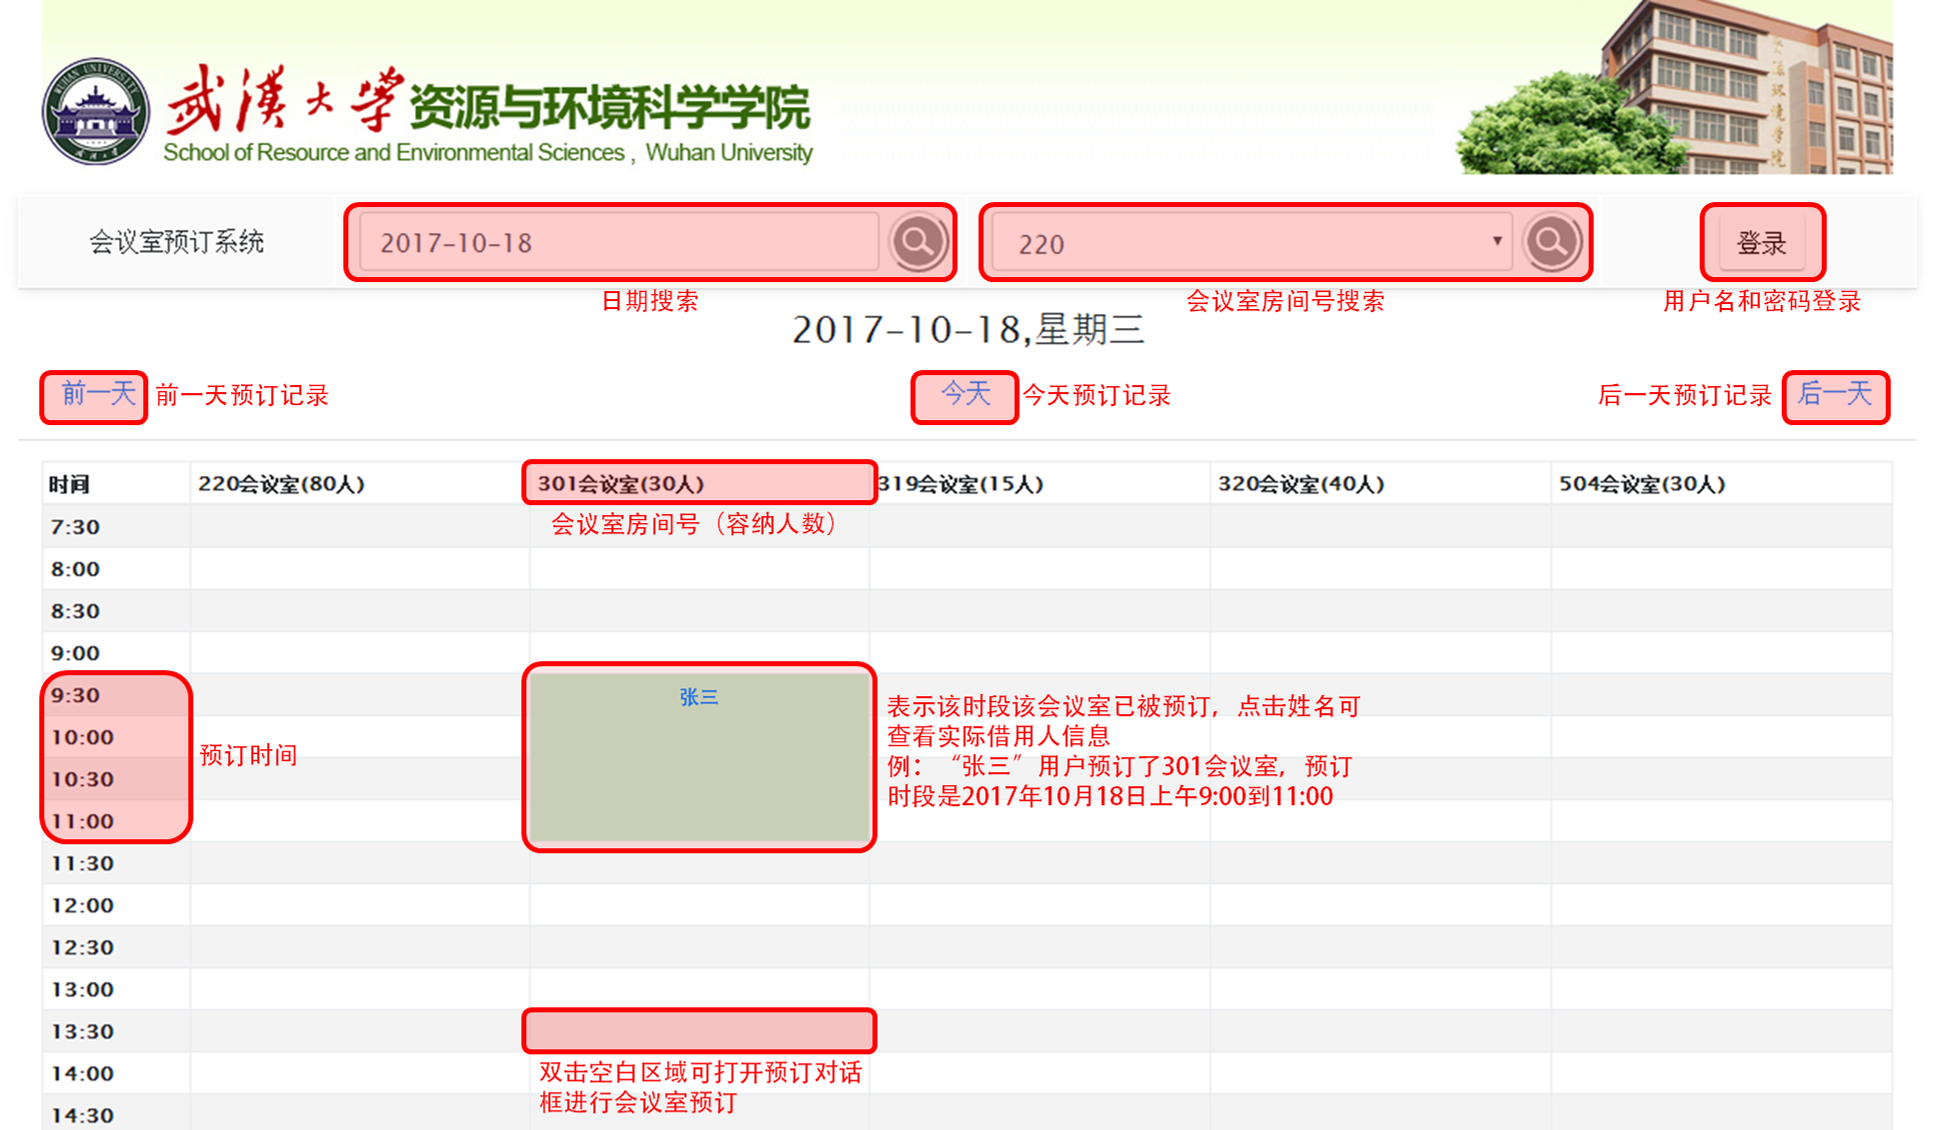
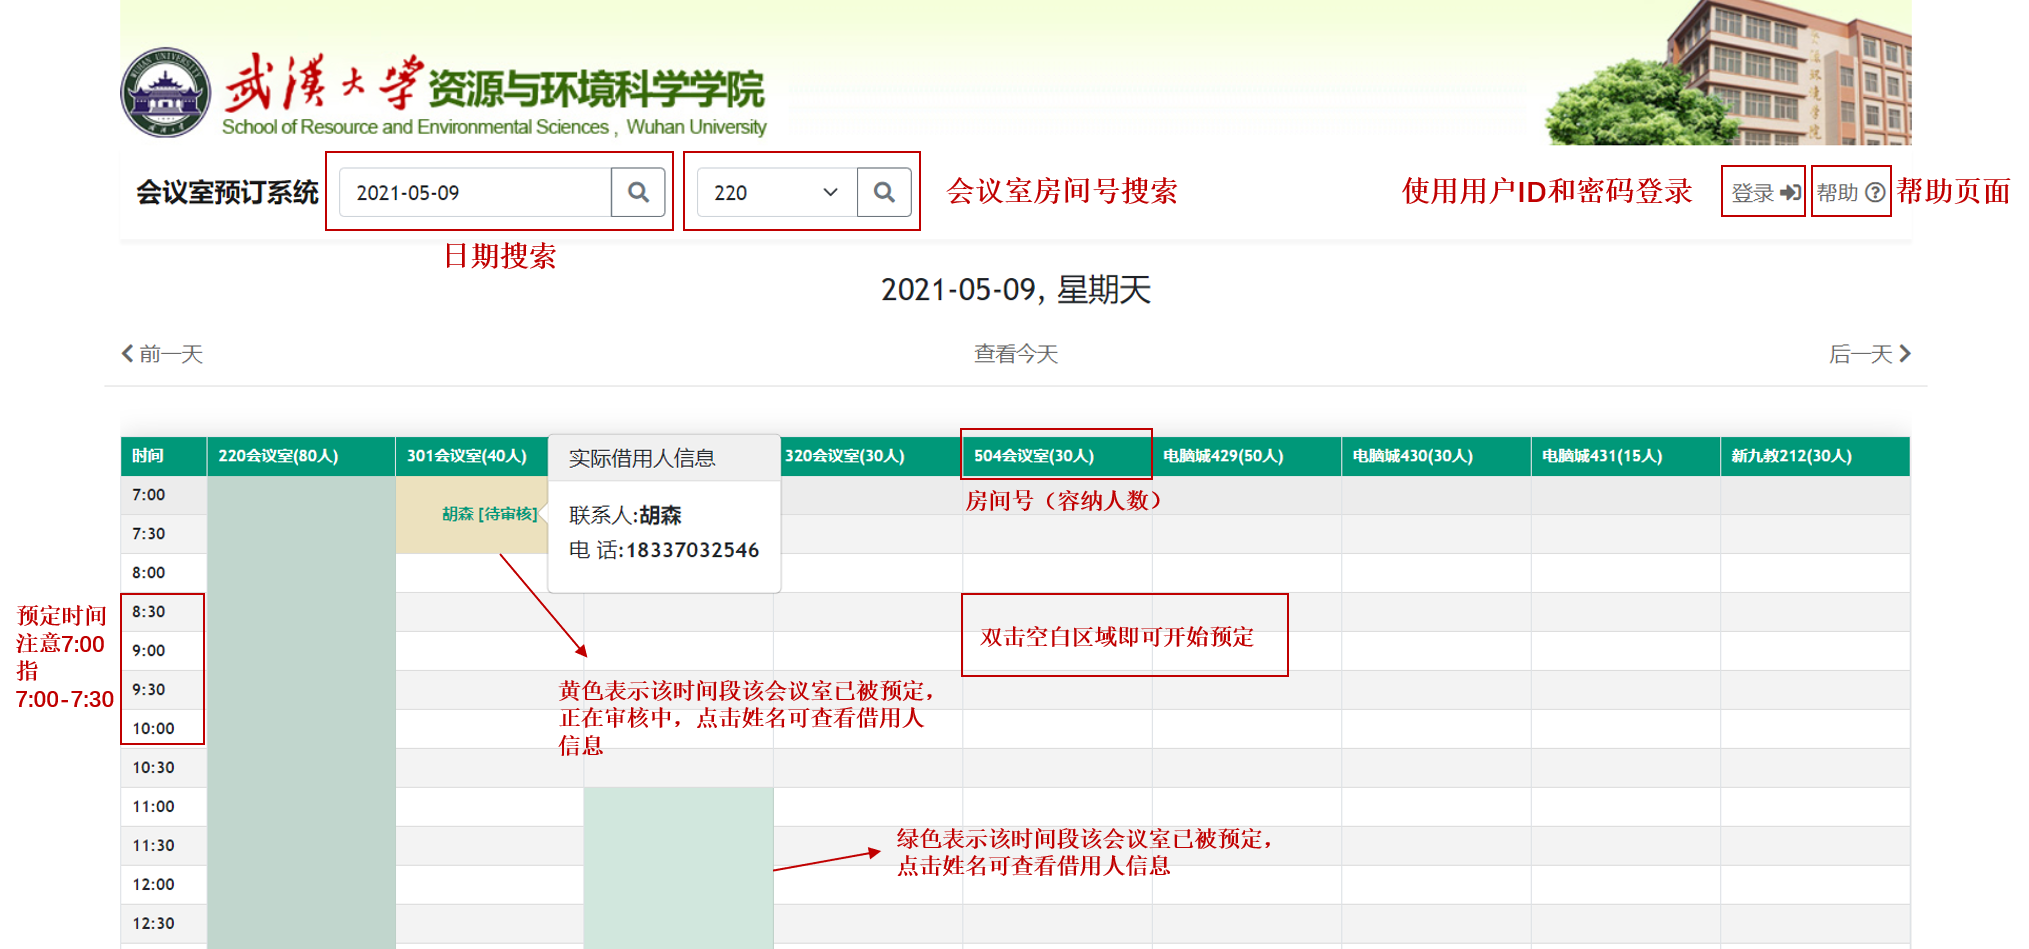
开发完成

diff --git a/src/main/resources/templates/help.html b/src/main/resources/templates/help.html
@@ -8,7 +8,7 @@
 
 
     <!-- Favicon -->
-    <link href="/assets/img/brand/favicon.png" rel="icon" type="image/png">
+    <link th:href="@{/images/icon.png}" rel="icon" type="image/png">
 
     <!-- bootstrap -->
     <link rel="stylesheet" th:href="@{/css/bootstrap.min.css}">
@@ -67,7 +67,7 @@
                         版本号：
                     </th>
                     <td>
-                        4.0.0
+                        3.0.0 -> 4.0.0
                     </td>
                 </tr>
                 <tr>
@@ -92,21 +92,21 @@
                         更新说明：
                     </th>
                     <td>
-                        <ul>
-                            <li class="list-unstyled">
+                        <ul class="list-unstyled">
+                            <li>
                                 1.预订时间更加细化，可以只预订半个小时，最短预订时间不再只能半天；
                             </li>
-                            <li class="list-unstyled">
+                            <li>
                                 2.预订流程进行了简化，尽可能减少了一些不必要的步骤；
                             </li>
-                            <li class="list-unstyled">
+                            <li>
                                 3.界面进行了一定程度上的优化；
                             </li>
-                            <li class="list-unstyled">
+                            <li>
                                 4.添加管理界面，大幅度修改UI；
                             </li>
-                            <li class="list-unstyled">
-                                5.本系统暂<span style="color:#e00;"><strong>不支持IE浏览器</strong></span>，谷歌浏览器和火狐浏览器均已通过测试。
+                            <li>
+                                5.本系统暂<span style="color:#e00;"><strong>不支持IE浏览器</strong></span>，谷歌浏览器、火狐浏览器和Edge浏览器均已通过测试。
                             </li>
                         </ul>
                     </td>
@@ -159,25 +159,44 @@
     </div>
 </div>
 
-<div style="text-align:center">
+<div class="container center" style="text-align:center">
 
     <figure class="figure">
-        <img th:src="@{/images/help-home.png}" class="figure-img img-fluid" style="width:1024px; height:768px;"/>
+        <img th:src="@{/images/help-home.png}" class="figure-img img-fluid" alt="主页" style="width: 80%"/>
         <figcaption class="figure-caption">系统主页面</figcaption>
     </figure>
     <br/>
     <figure class="figure">
-        <img th:src="@{/images/help-bookingdialog.png}" class="figure-img img-fluid"
-             style="width:600px;height:800px;"/>
+        <img th:src="@{/images/help-bookingdialog.png}" class="figure-img img-fluid" alt="预订" style="width: 60%"/>
         <figcaption class="figure-caption">预订页面</figcaption>
     </figure>
 
     <br/>
     <figure class="figure">
-        <img th:src="@{/images/help-cancel.png}" class="figure-img img-fluid" style="width:900px;height:400px;"/>
+        <img th:src="@{/images/help-cancel.png}" class="figure-img img-fluid" style="width: 60%"/>
         <figcaption class="figure-caption">撤销会议室</figcaption>
     </figure>
 
+    <br/>
+    <figure class="figure">
+        <img th:src="@{/images/help-user-edit.png}" class="figure-img img-fluid" style="width: 60%"/>
+        <figcaption class="figure-caption">个人信息修改</figcaption>
+    </figure>
+    <br/>
+    <figure class="figure">
+        <img th:src="@{/images/help-history.png}" class="figure-img img-fluid" style="width: 60%"/>
+        <figcaption class="figure-caption">历史预定记录</figcaption>
+    </figure>
+    <br/>
+    <figure class="figure">
+        <img th:src="@{/images/help-admin-user-manage.png}" class="figure-img img-fluid" style="width: 60%"/>
+        <figcaption class="figure-caption">【管理员】用户管理</figcaption>
+    </figure>
+    <br/>
+    <figure class="figure">
+        <img th:src="@{/images/help-admin-agree.png}" class="figure-img img-fluid" style="width: 60%"/>
+        <figcaption class="figure-caption">【管理员】预约审核</figcaption>
+    </figure>
 </div>
 
 <!-- jquery -->

diff --git a/src/main/resources/static/scripts/index.js b/src/main/resources/static/scripts/index.js
@@ -48,6 +48,7 @@ const initTableRoom = function () {
 
     $("#content table td").dblclick(function () {
         if (inMemoryToken) {
+            changeBookingDateOrRoom();
             bookModal.show();
         } else {
             loginModal.show();
@@ -148,7 +149,6 @@ $('#loginBtn').click(async () => {
                 alert("用户名或者密码错误！");
                 return;
             }
-            console.log(res);
             const {access_token, access_token_expiry, user_id, user_name, user_roles, user_phone} = res.data;
             login({access_token, access_token_expiry});
             localStorage.setItem("login_user", user_name);
@@ -156,7 +156,7 @@ $('#loginBtn').click(async () => {
             localStorage.setItem("login_user_roles", JSON.stringify(user_roles));
             localStorage.setItem("login_user_phone", user_phone);
             startCountdown(toLogin, toLogout);
-            $("#userLabel").text(user_name).removeClass(
+            $("#userLabel").text(user_name).parent("#toManage").removeClass(
                 'hidden');
             $("#btnLogin").addClass('hidden');
             $('#btnLogout').removeClass(
@@ -316,7 +316,7 @@ $('.spinner .btn:last-of-type').on('click', function () {
     }
 });
 
-$("#userLabel").click(() => {
+$("#toManage").click(() => {
     window.location.href = `${base}/manage`;
 });
 
@@ -335,7 +335,7 @@ function changeBookingDateOrRoom() {
         }
         const unavailableRooms = res.data;
 
-        $('.bg-danger').removeClass('bg-danger');
+        $('.styled-table tbody tr td.active').removeClass('active');
         unavailableRooms.forEach(item => {
             const start = item.start;
             const end = item.end;
@@ -343,7 +343,7 @@ function changeBookingDateOrRoom() {
             const first = (start - time - extra) / 1800; // 开始id
             const last = (end - time - extra) / 1800; // 结束id
             for (let i = first; i < last; i++) {
-                $('#' + (i + 1)).addClass("bg-danger");
+                $('#' + (i + 1)).addClass("active");
             }
         })
     }).fail(function () {
@@ -357,7 +357,7 @@ async function syncLogout(event) {
             return;
         }
         console.log('logged out from storage!')
-        $('#userLabel').empty().addClass('hidden');
+        $('#toManage').empty().addClass('hidden');
         $('#btnLogin').removeClass('hidden');
         $('#btnLogout').addClass('hidden');
         inMemoryToken = null; // 将token置空
@@ -387,7 +387,7 @@ function toLogin() {
 }
 
 function toLogout() {
-    $('#userLabel').empty().addClass('hidden');
+    $('#toManage').empty().addClass('hidden');
     $('#btnLogin').removeClass('hidden');
     $('#btnLogout').addClass('hidden');
 }
@@ -407,7 +407,7 @@ $(function () {
         alert("此功能还在开发中，敬请期待！");
     });
     $("#btnLogout").click(async () => {
-        $('#userLabel').empty().addClass('hidden');
+        $('#toManage').empty().addClass('hidden');
         $('#btnLogin').removeClass('hidden');
         $('#btnLogout').addClass('hidden');
         await logout();
@@ -420,7 +420,7 @@ $(function () {
     auth(toLogin, toLogout).then(() => {
         // 刷新是否成功
         if (isLogin()) {
-            $("#userLabel").text(localStorage.getItem("login_user")).removeClass(
+            $("#userLabel").text(localStorage.getItem("login_user")).parent("#toManage").removeClass(
                 'hidden');
             $("#btnLogin").addClass('hidden');
             $('#btnLogout').removeClass(

diff --git a/src/main/resources/templates/index.html b/src/main/resources/templates/index.html
@@ -8,7 +8,7 @@
     <title>资环院会议室预订系统</title>
 
     <!-- Favicon -->
-    <link href="/assets/img/brand/favicon.png" rel="icon" type="image/png">
+    <link th:href="@{/images/icon.png}" rel="icon" type="image/png">
 
     <!-- bootstrap -->
     <link rel="stylesheet" th:href="@{/css/bootstrap.min.css}">
@@ -75,12 +75,13 @@
                     </li>
                 </ul>
                 <ul class="nav justify-content-end">
-                    <li class="nav-item m-1 me-2 styled-li">
-                        <span id="userLabel" class="hidden"></span>
+                    <li class="nav-item m-1 me-2 styled-li hidden" id="toManage">
+                        <i class="far fa-user me-0"></i>
+                        <span id="userLabel"></span>
                     </li>
-                    <li class="nav-item m-1 me-2 styled-li" id="btnLogin">
-                        <span class="me-0" data-bs-toggle="modal"
-                              data-bs-target="#loginModal">登录
+                    <li class="nav-item m-1 me-2 styled-li" id="btnLogin" data-bs-toggle="modal"
+                        data-bs-target="#loginModal">
+                        <span class="me-0">登录
                         </span>
                         <i class="fas fa-sign-in-alt"></i>
                     </li>
@@ -290,8 +291,8 @@
                         </div>
                     </form>
                     <div class="table-responsive">
-                        <table class="table table-bordered table-striped table-sm">
-                            <caption>红色表示该时间段不可用；表格中时间表示开始时间，如：8:00指 8:00-8:30 时间段。</caption>
+                        <table class="table table-bordered table-sm styled-table">
+                            <caption>橙色表示该时间段不可用；表格中时间表示开始时间，如：7:00指 7:00-7:30 时间段。</caption>
                             <tr>
                                 <th scope="row">上午</th>
                                 <td id="1">7:00</td>

diff --git a/src/main/resources/templates/userManage.html b/src/main/resources/templates/userManage.html
@@ -8,7 +8,7 @@
           content="width=device-width, initial-scale=1, shrink-to-fit=no">
     <title>资环院会议室预订系统</title>
     <!-- Favicon -->
-    <link href="/assets/img/brand/favicon.png" rel="icon" type="image/png">
+    <link th:href="@{/images/icon.png}" rel="icon" type="image/png">
 
     <!-- bootstrap -->
     <link rel="stylesheet" th:href="@{/css/bootstrap.min.css}">

diff --git a/src/main/resources/static/scripts/userManage.js b/src/main/resources/static/scripts/userManage.js
@@ -357,7 +357,8 @@ function showUserInfo() {
 }
 
 async function getCanRevokeData(page, size) {
-    const url = `${base}/record/canRevoke?page=${page}&size=${size}`
+    const userId = localStorage.getItem("login_user_id");
+    const url = `${base}/record/canRevoke?id=${userId}&page=${page}&size=${size}`
     try {
         const response = await fetch(url, {
             method: 'GET',

diff --git a/src/main/resources/static/css/main.css b/src/main/resources/static/css/main.css
@@ -135,6 +135,12 @@
     text-align: left;
 }
 
+.styled-table tbody tr td.active {
+    background-color: #e45826;
+    color: #ffffff;
+    text-align: left;
+}
+
 .styled-table th,
 .styled-table td {
     padding: 6px 8px;

diff --git a/src/main/java/whu/sres/controller/RecordController.java b/src/main/java/whu/sres/controller/RecordController.java
@@ -54,9 +54,9 @@ public class RecordController {
     }
 
     @GetMapping("/canRevoke")
-    public String canRevoke(@RequestParam(defaultValue = "1") int page, @RequestParam(defaultValue = "10") int size) {
+    public String canRevoke(@RequestParam String id, @RequestParam(defaultValue = "1") int page, @RequestParam(defaultValue = "10") int size) {
         PageHelper.startPage(page, size);
-        PageInfo<Record> records = new PageInfo<>(recordService.getRecordBeforeEndTimestamp(System.currentTimeMillis() / 1000));
+        PageInfo<Record> records = new PageInfo<>(recordService.getRecordBeforeEndTimestamp(id, System.currentTimeMillis() / 1000));
         return new Result<PageInfo<Record>>().data(records).success(true).message("数据获取成功").code(ResultCode.OK).toString();
     }
 

diff --git a/src/main/java/whu/sres/service/impl/RecordServiceImpl.java b/src/main/java/whu/sres/service/impl/RecordServiceImpl.java
@@ -28,8 +28,8 @@ public class RecordServiceImpl implements RecordService {
     }
 
     @Override
-    public List<Record> getRecordBeforeEndTimestamp(long timestamp) {
-        return recordMapper.getRecordBeforeEndTimestamp(timestamp);
+    public List<Record> getRecordBeforeEndTimestamp(String userId, long timestamp) {
+        return recordMapper.getRecordBeforeEndTimestamp(userId, timestamp);
     }
 
     @Override

diff --git a/src/main/java/whu/sres/mapper/RecordMapper.java b/src/main/java/whu/sres/mapper/RecordMapper.java
@@ -11,7 +11,7 @@ public interface RecordMapper {
 
     List<Record> getRecordByTimestamp(long timestamp);
 
-    List<Record> getRecordBeforeEndTimestamp(long timestamp);
+    List<Record> getRecordBeforeEndTimestamp(String userId, long timestamp);
 
     List<Record> getRecordByRoomAndTimestamp(String room, long timestamp);
 

diff --git a/src/main/java/whu/sres/service/RecordService.java b/src/main/java/whu/sres/service/RecordService.java
@@ -9,7 +9,7 @@ public interface RecordService {
 
     List<Record> getRecordByTimestamp(long timestamp);
 
-    List<Record> getRecordBeforeEndTimestamp(long timestamp);
+    List<Record> getRecordBeforeEndTimestamp(String userId, long timestamp);
 
     List<Record> getRecordByRoomAndTimestamp(String room, long timestamp);
 
